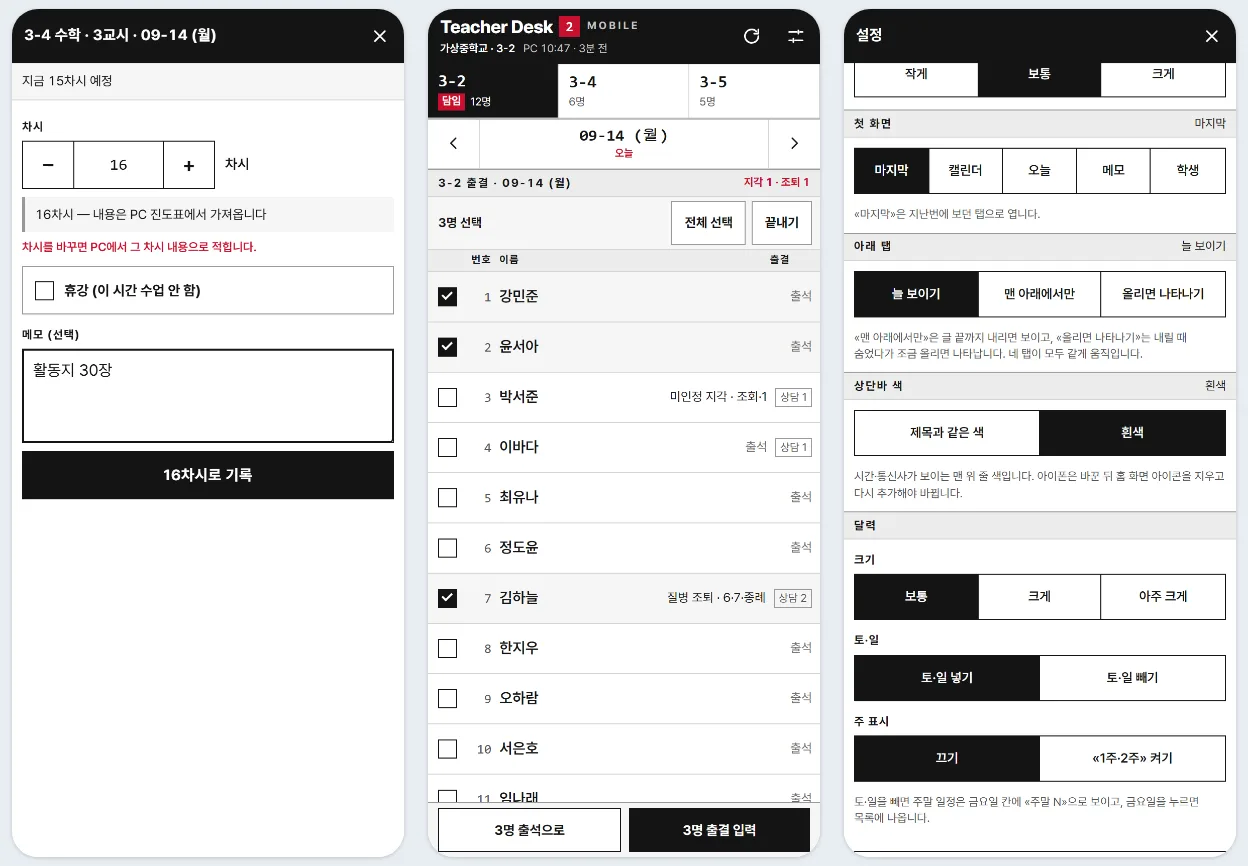
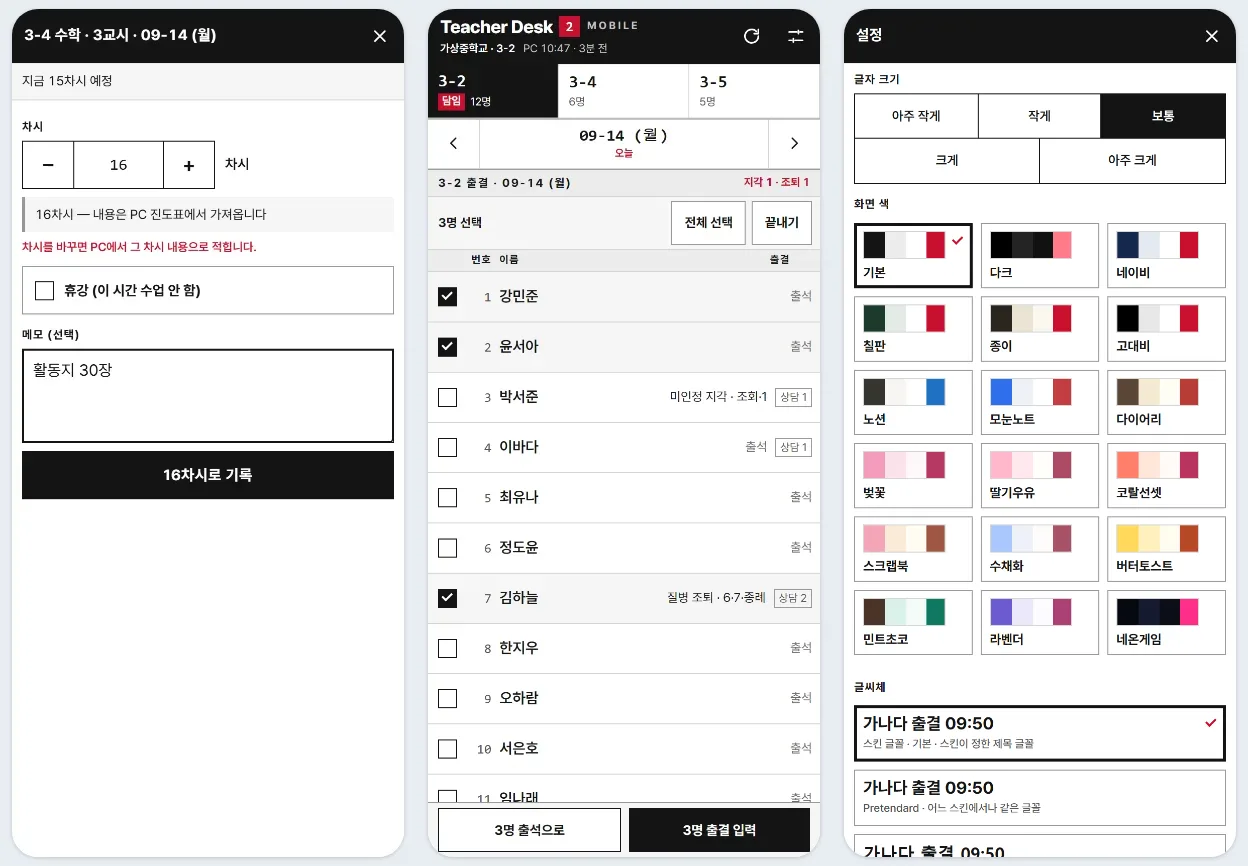
td2 가이드: 폰 m10·m11 — 일지(스킨 12가지·스킨 글꼴·강조색/상단바 설정 정리) · 이 기능 있나요 «폰 화면 색 18가지» · FAQ 상단바 · 폰 설정 캡처 새로 · 스킨 그림(벚꽃·다이어리·네온게임)

Changed region(s): [[0.6875, 0.0624, 1.0, 0.9977]]

diff --git a/td2/index.html b/td2/index.html
@@ -755,6 +755,7 @@
               <div class="fx" data-k="업무포털 버튼 바탕화면 누를 때만"><span class="fn">업무포털을 누를 때만 <span class="ftag off">기본 꺼짐</span></span><span class="fw">설정 [위젯] → <b>업무포털 로그인</b>을 켜면 바탕화면에 단추 카드가 붙습니다. 자동 실행을 꺼 두어도 이 단추는 됩니다</span></div>
               <div class="fx" data-k="동기화 PC 간 동기화 학교 집 노트북 두 대 같이 쓰기 구글 로그인 드라이브 맞추기 연동"><span class="fn">학교 PC·집 PC 같이 쓰기(PC 간 동기화) <span class="ftag off">기본 꺼짐</span></span><span class="fw">설정 [데이터] 맨 위 <b>[구글로 로그인]</b> — 같은 구글 계정으로 로그인한 PC끼리 할 일·일정·명렬·설정·위젯 배치가 저절로 동기화됩니다(고치고 2초쯤 뒤 올리고, 다른 PC는 켤 때·5분마다·창을 누를 때(1분에 한 번)·잠자기에서 깰 때 받음). 급하면 <b>[지금 동기화]</b>. 업무포털·메신저 비밀번호·독 바로가기·서랍·창 모드·쓸 모니터는 PC마다 따로. <b>PC마다 화면 크기·비율이 다르면 위젯 배치가 조금 달라질 수 있어요</b></span></div>
               <div class="fx" data-k="폰 연동 모바일 핸드폰 휴대폰 스마트폰 아이폰 안드로이드 m.kimju.kr 폰에서 할 일 출결 입력 앱 설치 홈 화면"><span class="fn">폰에서 보기·적기(폰 연동) <span class="ftag off">기본 꺼짐</span> <span class="ftag hid">v3.40~</span></span><span class="fw">PC 설정 [데이터] → <b>「폰 연동」</b>을 켜고(PC 간 동기화 로그인 필요) 폰에서 <b>m.kimju.kr/td2</b>를 열어 같은 구글 계정으로 로그인 — 할 일·일정·메모·D-Day·초과근무·진도를 폰에서 보고 적으면 켜져 있는 PC가 1분 안에 넣습니다(PC가 꺼져 있으면 켤 때). 출결·상담·활동기록은 [학생 자료도]를 켜야 보입니다 → <a href="#phone">폰 연동</a></span></div>
+              <div class="fx" data-k="폰 스킨 테마 화면 색 꾸미기 노션 모눈노트 다이어리 벚꽃 딸기우유 코랄선셋 스크랩북 수채화 버터토스트 민트초코 라벤더 네온게임 다크 폰 글씨체 글꼴 상단바"><span class="fn">폰 화면 색 18가지(스킨 12가지)</span><span class="fw">폰 설정(오른쪽 위) → <b>화면 색</b> — 기본·다크·네이비·칠판·종이·고대비에 노션·벚꽃·네온게임 같은 스킨 12가지, 누르면 바로 바뀝니다. 글씨체 «스킨 글꼴»은 스킨마다 제목 글꼴이 다르고, 다른 글씨체를 고르면 그 글꼴로 보입니다. 상단바는 제목 줄 색을 따릅니다 → <a href="#phone">폰 연동</a></span></div>
               <div class="fx" data-k="백업 내보내기 다른 컴퓨터 옮기기 이사"><span class="fn">다른 컴퓨터로 옮기기</span><span class="fw">설정 [데이터] → <b>[설정 내보내기] / [설정 불러오기]</b>. 다만 <b>Gemini 키·NEIS 키·캘린더 주소·인증서 비밀번호는 빠집니다</b>(백업은 열면 그대로 보이는 글자 파일이라서요) — 새 컴퓨터에서 그것만 다시 넣으세요</span></div>
               <div class="fx" data-k="지난 일정 지우기 완료 정리 청소"><span class="fn">묵은 것 정리하기</span><span class="fw">설정 [데이터] → [지난 일정 지우기] · [완료한 할 일 지우기]</span></div>
               <div class="fx" data-k="초기화 처음 상태 반납 인계 삭제"><span class="fn">처음 상태로 되돌리기</span><span class="fw">설정 [데이터] 맨 아래 [처음 상태로 되돌리기] — 반납·인계 때는 그 뒤 앱을 지우고 <b>%APPDATA%\TeacherDesk2 폴더도 통째로</b> 지우세요(안전용 사본이 남습니다). 자세한 것은 12번</span></div>
@@ -802,6 +803,7 @@
             <ul>
               <li>학생 누가기록 <b>활동기록을 구분</b>(행발·과세특+과목·자율·동아리·진로…)을 골라 저장하고 구분별로 따로 봅니다 · 생기부 <b>[평소 기록 불러오기]</b>는 지금 쓰는 영역의 기록만(과세특은 그 과목만) — 폰에서도 구분을 골라 적습니다</li>
               <li>고침 — 과세특 초안에 다른 과목·동아리 기록이 섞여 쓰이던 것 · 명렬에서 📝·숫자 배지가 학생 이름을 가리던 것</li>
+              <li><b>폰 화면</b>도 함께 — 화면 색에 <b>스킨 12가지</b>(노션 · 벚꽃 · 네온게임 …) · 글씨체 «스킨 글꼴» · 강조색·상단바 색 설정은 정리(상단바는 늘 제목과 같은 색)</li>
             </ul>
           </div>
 
@@ -3149,7 +3151,9 @@
           </div>
         </div>
 
-        <figure class="shot"><img src="shots/81-phone-more.webp" width="1248" height="866" alt="폰 화면 — 진도 기록 · 여러 명 출결 · 폰 설정" loading="lazy"><figcaption><b>적기 · 설정</b> — 진도 기록 시트, 여러 명 골라 출결, 폰 설정(색 · 글씨체 · 아래 탭 · 달력 크기). 가상 자료입니다.</figcaption></figure>
+        <figure class="shot"><img src="shots/81-phone-more.webp" width="1248" height="866" alt="폰 화면 — 진도 기록 · 여러 명 출결 · 폰 설정" loading="lazy"><figcaption><b>적기 · 설정</b> — 진도 기록 시트, 여러 명 골라 출결, 폰 설정(글자 크기 · 화면 색 18가지 · 글씨체). 가상 자료입니다.</figcaption></figure>
+
+        <figure class="shot"><img src="shots/83-phone-skins.webp" width="1248" height="866" alt="폰 화면 색 스킨 — 벚꽃 · 다이어리 · 네온게임" loading="lazy"><figcaption><b>화면 색 스킨</b> — 왼쪽부터 벚꽃(캘린더) · 다이어리(오늘) · 네온게임(캘린더). 칸 배치는 그대로이고 색 · 모서리 · 제목 글꼴만 바뀝니다. 가상 자료입니다.</figcaption></figure>
 
         <div class="feat txt">
           <div class="feat-b">
@@ -3647,7 +3651,7 @@
           <li><strong>「구글 드라이브 허락이 없습니다」</strong> — 폰에서 [다시 로그인] → 허락 화면의 <strong>「구글 드라이브」 체크 칸을 켜고</strong> [허용].</li>
           <li><strong>폰 학생 탭이 비어 있어요</strong> — PC 폰 연동 칸의 <strong>[학생 자료도]</strong>를 켜고, PC 설정 [학교]에 담임 학년·반을 적거나 명렬에 학생을 불러오세요.</li>
           <li><strong>앱으로 설치가 안 돼요 · 아이콘이 없어요</strong> — 폰 설정(오른쪽 위) → <strong>[앱으로 설치]</strong>를 다시 누르세요. 안드로이드는 크롬 ⋮ 메뉴 → 앱 설치(홈 화면에 추가), 아이폰은 사파리 공유 단추 → 홈 화면에 추가. 카카오톡 안에서는 먼저 기본 브라우저로 여세요.</li>
-          <li><strong>폰 상단바(시간·배터리)가 안 보여요</strong> — 폰 설정 → 상단바 색을 바꾸세요. 아이폰은 바꾼 뒤 홈 화면 아이콘을 지우고 다시 추가해야 적용됩니다.</li>
+          <li><strong>폰 상단바(시간·배터리) 색이 제목과 달라요</strong> — 상단바는 고른 화면 색의 <strong>제목 줄 색을 따릅니다</strong>(따로 고르는 설정은 없어졌습니다). 안드로이드는 바로 바뀌고, 아이폰은 홈 화면에 추가할 때 정해져 검정 줄로 보입니다. 앱을 완전히 닫았다 다시 열어도 그대로면 폰 설정 맨 아래 「폰 화면 판」이 m11 이상인지 보세요.</li>
           <li><strong>폰에서 고쳤더니 「바뀌어 반영하지 못했습니다」</strong> — 그 사이 PC에서 같은 할 일·메모를 고친 것입니다. 폰에서 새로 받은 뒤 다시 고치세요.</li>
         </ul>
 
